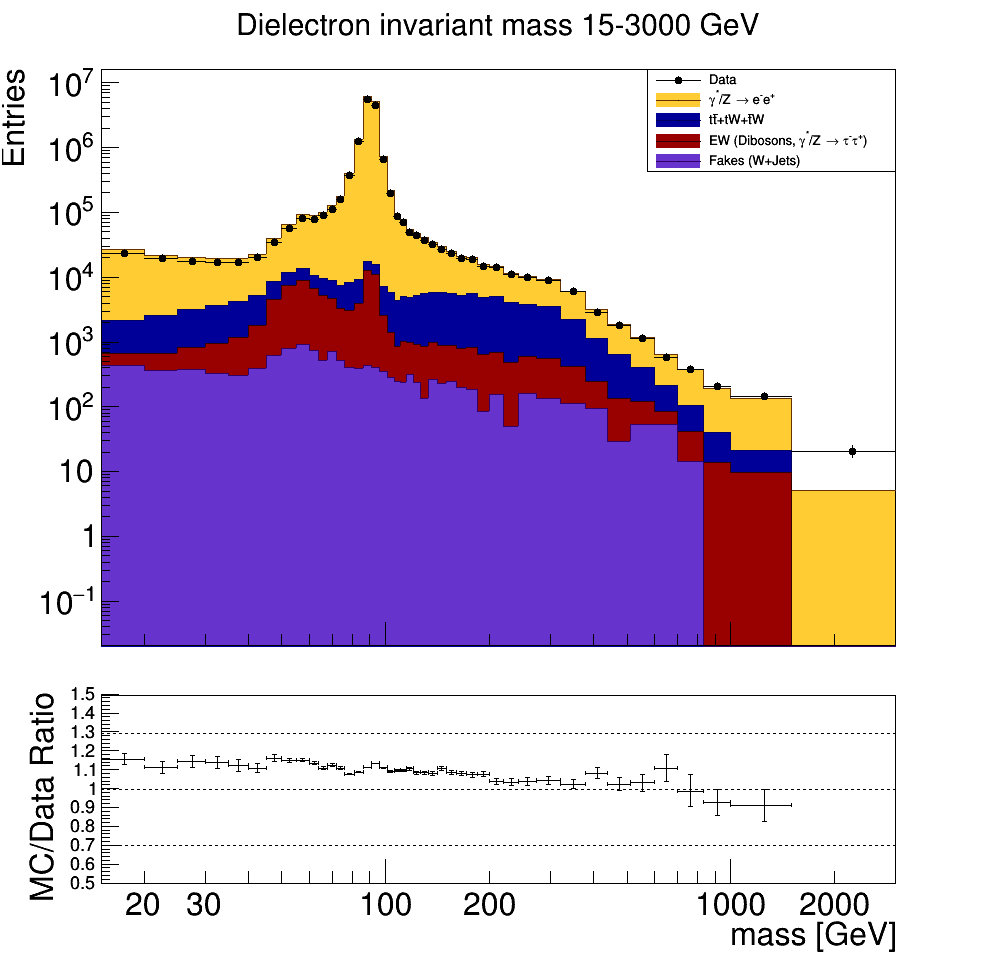
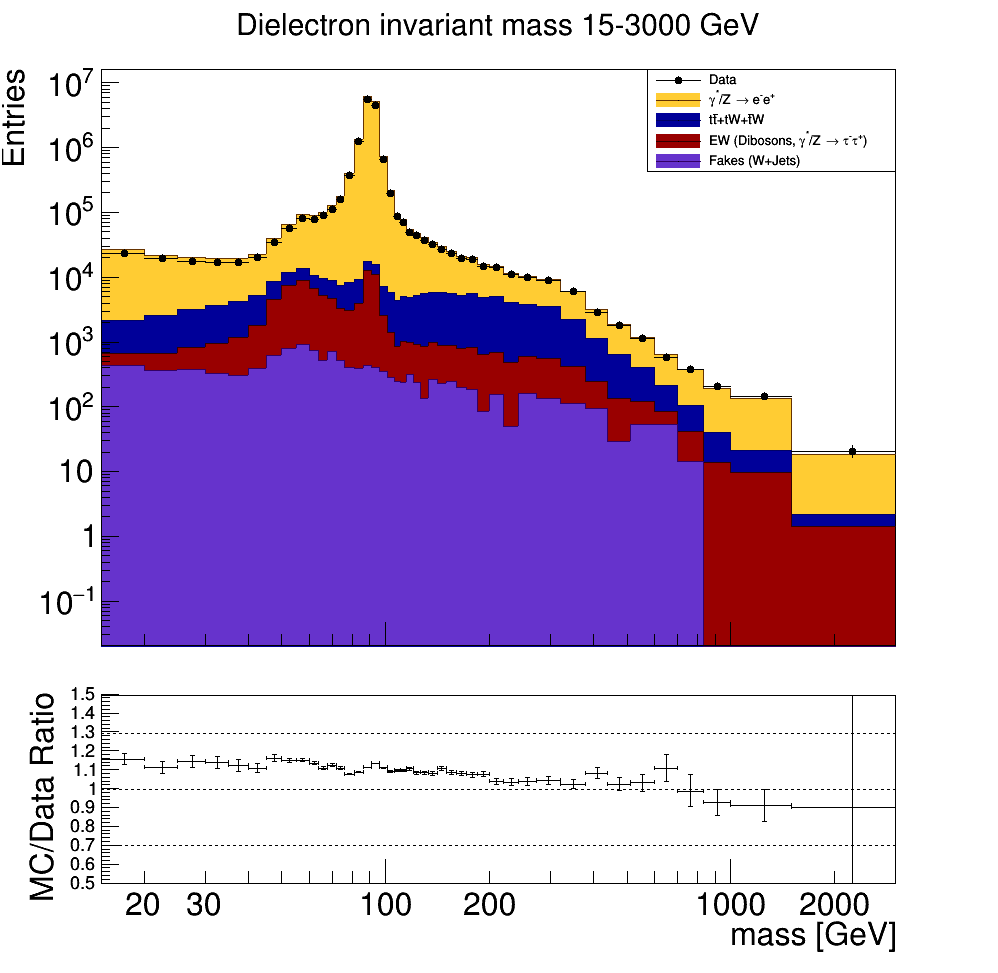
updated plots

Changed region(s): [[0.7766, 0.4625, 0.9008, 0.6783]]

diff --git a/dataVsMC.C b/dataVsMC.C
@@ -405,7 +405,7 @@ void dataVsMC()
   
   //Event Loop
   cout << "Starting Event Loop" << endl;
-  double invMass, rapidity, dileptonPt, dileptonEta, xSecWeight, vertWeightnoPileup, genWeight, varGenWeight, 
+  double invMass, rapidity, dileptonPt, dileptonEta, xSecWeight, weightnoPileup, genWeight, varGenWeight, 
     totalWeight, lumiEffective, nEffective, localEntry, sumGenWeight, sumRawGenWeight, pileupWeight;
   Long64_t nentries;
   Long64_t count = 0;
@@ -456,7 +456,7 @@ void dataVsMC()
       pileupWeight = hPileupRatio->GetBinContent(hPileupRatio->FindBin(nPileUp));
       genWeight = GENEvt_weight/fabs(GENEvt_weight);
       genWeight = genWeight/sumGenWeight;
-      vertWeightnoPileup = genWeight*xSecWeight;
+      weightnoPileup = genWeight*xSecWeight;
       totalWeight = genWeight*xSecWeight*pileupWeight;
 
       if(iChain==DataRunB||iChain==DataRunC||iChain==DataRunD||iChain==DataRunE||iChain==DataRunF||
@@ -473,7 +473,7 @@ void dataVsMC()
 	      iChain==TAUTAU400to500||iChain==TAUTAU500to700||iChain==TAUTAU700to800||iChain==TAUTAU800to1000||
 	      iChain==TAUTAU1000to1500||iChain==TAUTAU1500to2000||iChain==TAUTAU2000to3000){
 	histos[VERTICES][EW]->Fill(nVertices,vertWeightnoPileup);
-	histos[VERTICES_WEIGHTED][EW]->Fill(nVertices,totalWeight*pileupWeight);
+	histos[VERTICES_WEIGHTED][EW]->Fill(nVertices,totalWeight);
       }
       else if(iChain==tt0to700||iChain==tt700to1000||iChain==tt1000toInf||iChain==tW||iChain==tbarW) {
 	histos[VERTICES][TOPS]->Fill(nVertices,totalWeight);

diff --git a/drawDataVsMC.C b/drawDataVsMC.C
@@ -105,6 +105,13 @@ void drawDataVsMC()
       histos[i][j]->GetXaxis()->SetTitle(xAxisLabels[i]);
     }
   }
+
+  //////////////////////////////////////////////////////////////////////////////////////////////////
+  //Setting negative bin content found in FAKES to ZERO!!!!!!!!!!!!!!!!!!!!!!
+  for(int i=0;i<3000;i++){
+      if(histos[INV_MASS][FAKES]->GetBinContent(i) < 0) histos[INV_MASS][FAKES]->SetBinContent(i,0);
+    }
+  //////////////////////////////////////////////////////////////////////////////////////////////////
   
   //Place histograms into stacks
   THStack*hStack[nHistoTypes];
@@ -140,7 +147,7 @@ void drawDataVsMC()
     }
     else canvas[i]->SetLogy();
     canvas[i]->cd();
-
+    
     /*
     hStack[i]->Draw("bar");
     hStack[i]->GetXaxis()->SetTitle(xAxisLabels[i]);
@@ -177,6 +184,4 @@ void drawDataVsMC()
     
   }
 
-  
-  
 }//end invMassDraw
